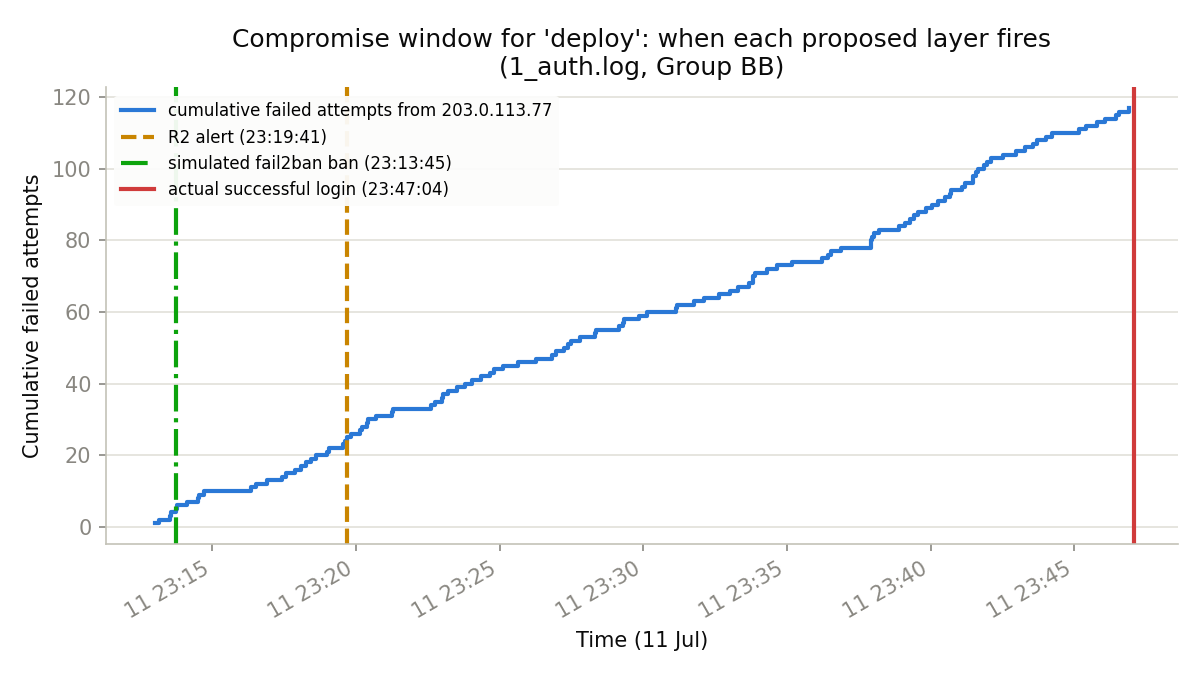
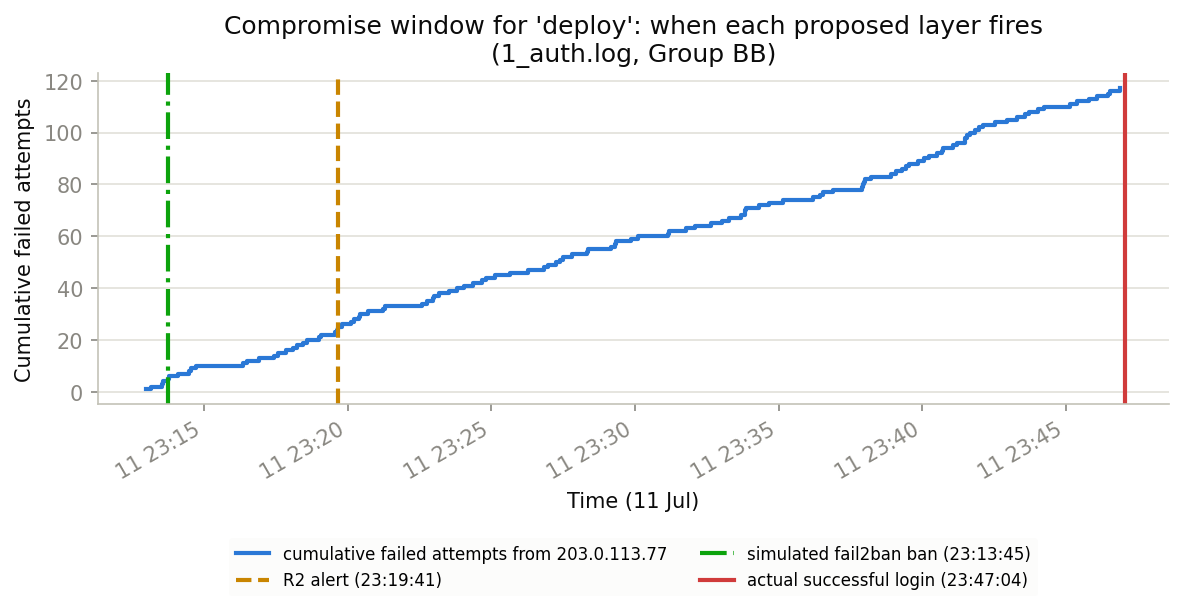
Fix Figure 4 legend overlapping the detection timeline lines
Move the legend below the chart instead of an inset upper-left corner,
which was covering the early part of the cumulative-attempts curve and
the R2 alert/fail2ban ban markers.

Changed region(s): [[0.0, 0.0311, 0.9688, 0.964], [0.0938, 0.8396, 0.1875, 0.9018], [0.8438, 0.7152, 0.875, 0.7463]]

diff --git a/part2/detector.py b/part2/detector.py
@@ -226,11 +226,12 @@ def plot_detection_timeline(events, alerts, path, ban_time=None):
     ax.set_ylabel("Cumulative failed attempts", color=COLOR_TEXT_PRIMARY)
     ax.set_title(f"Compromise window for '{incident['username']}': when each "
                  f"proposed layer fires\n(1_auth.log, Group BB)", color=COLOR_TEXT_PRIMARY)
-    legend = ax.legend(fontsize=8, loc="upper left", frameon=True, facecolor="#fcfcfb", edgecolor="none")
+    legend = ax.legend(fontsize=8, loc="upper center", bbox_to_anchor=(0.5, -0.38),
+                       ncol=2, frameon=True, facecolor="#fcfcfb", edgecolor="none")
     legend.get_frame().set_alpha(0.95)
     fig.autofmt_xdate()
     fig.tight_layout()
-    fig.savefig(path, dpi=150)
+    fig.savefig(path, dpi=150, bbox_inches="tight")
     plt.close(fig)
     print(f"Timeline figure written to {path}")
 